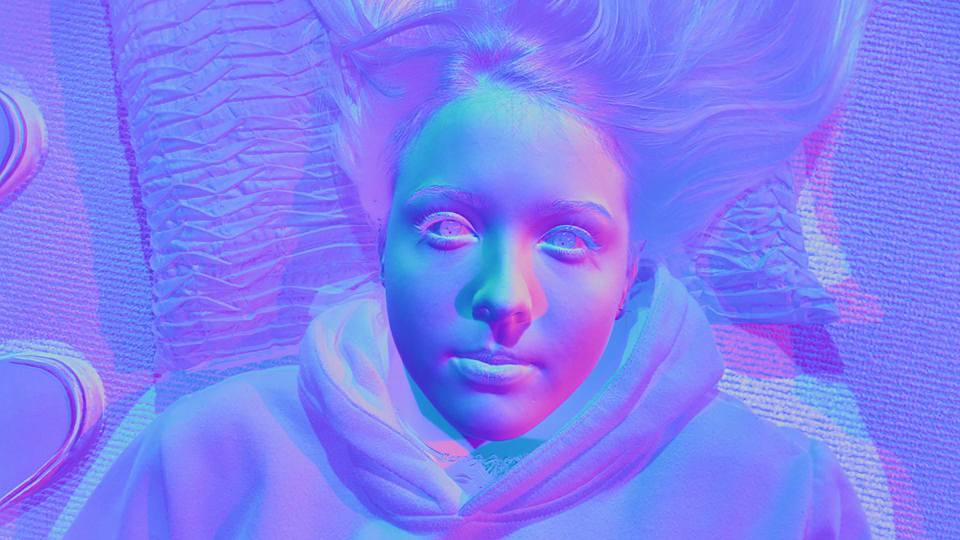
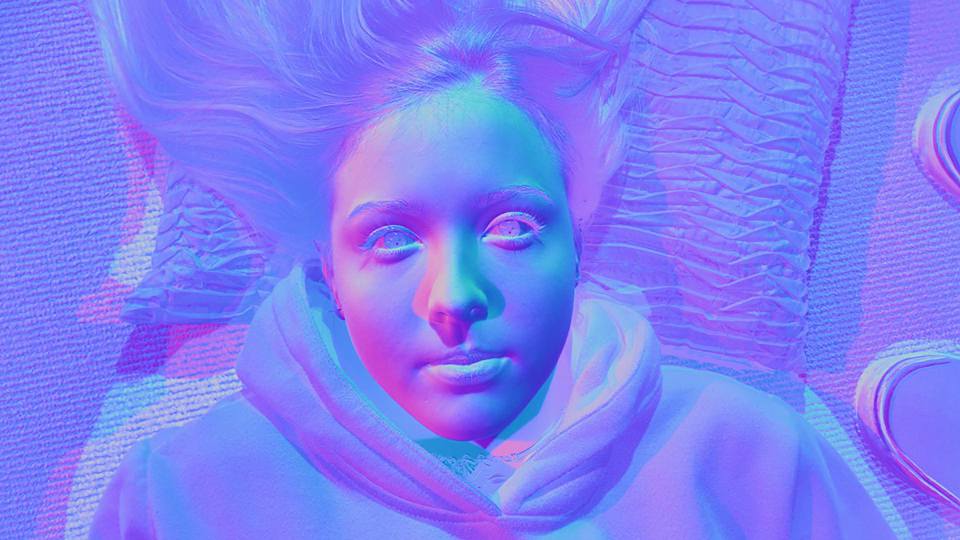
Works well

diff --git a/tp4/MVA_NPM_TP_4.py b/tp4/MVA_NPM_TP_4.py
@@ -13,19 +13,24 @@ class Material():
         render = np.zeros((nlig, ncol, 3))
 
         i,j = np.meshgrid(range(nlig), range(ncol),indexing='ij')
-        i = -(2*i - nlig)/ncol
-        j = (2*j - ncol)/ncol
+        i = -(2*i - nlig)/nlig
+        j = (2*j - ncol)/nlig
 
-        wo = np.stack((-j, -i, 1.5 * np.ones_like(i)), axis=-1)
-        
+        wo = np.stack((-i, -j, 1.5 * np.ones_like(i)), axis=-1)
+        wo = wo / np.linalg.norm(wo, axis=-1, keepdims=True)
+
         for light in lights:
-            wi = light.position - np.stack((-j, -i, np.zeros_like(i)), axis=-1)
+            wi = light.position - np.stack((j, i, np.zeros_like(i)), axis=-1)
+            wi = wi / np.linalg.norm(wi, axis=-1, keepdims=True)
 
             f = self.f(wo, wi, normal)
 
             Li = light.intensity * light.color
             nwi = np.sum(normal*wi,axis=-1,keepdims=True)
-            render += np.clip(f*Li*nwi, 0, None)
+            res = f * Li * nwi
+            # low = np.percentile(res, 0)
+            # high = np.percentile(res, 100)
+            render += np.clip(f*Li*nwi, 0, None) #max(0,low), high)
         return render 
 
     def __add__(self, other):
@@ -59,11 +64,12 @@ class BlinnPhong(Material):
         return self.diffuse * nwh**self.shine
 
 class Cook(Material):
-    def __init__(self, alpha, specular):
+    def __init__(self, alpha, specular, metal):
         self.alpha = alpha
         self.roughness = np.sqrt(self.alpha)
         self.k = (self.roughness + 1)**2/8
-        self.F0 = np.array(specular)
+        self.F0 = metal
+        self.spec = np.array(specular)
     
 
     def f(self, wo, wi, n):
@@ -75,7 +81,7 @@ class Cook(Material):
         nwo = np.sum(n*wo, axis=-1, keepdims=True)
 
         D = self.alpha**2 / (np.pi *(nwh**2*(self.alpha**2-1)+1)**2)
-        
+
         k = (self.roughness + 1)**2 / 8
         
         Gi = nwi/(nwi*(1-k)+k)
@@ -86,7 +92,9 @@ class Cook(Material):
         c1 = -5.55473
         c2 = -6.98316
         oh = np.sum(wh * wo, axis=-1, keepdims=True)
-        F = self.F0 + (1 - self.F0)*2**((c1*oh + c2)*oh)
+        F = self.spec * (self.F0 + (1 - self.F0)*2**((c1*oh + c2)*oh))
+
+        F[(nwi <= 0).squeeze()] = 0
 
         return D*F*G/(4 * nwi * nwo)
         
@@ -97,33 +105,21 @@ class LightSource():
         self.position = np.array(position)
         self.color = np.array(color)
         self.intensity = intensity
-
-def shade(normalimage, material, lightsources):
-    nlig, ncol, _ = normalimage.shape
-    render = np.zeros((nlig, ncol, 3))
-
-    for i, j in np.ndindex(nlig, ncol):
-        for ls in lightsources:
-            n =  (normalimage[i,j,:3]-0.5)
-            n = n/np.linalg.norm(n)
-            x = (2*j - ncol)/ncol
-            y = -(2*i - nlig)/ncol
-            wo = np.array([-x, -y ,1.5])
-            wo = wo/np.linalg.norm(wo)
-            wi = ls.position - np.array([x,y,0])
-            wi = wi/np.linalg.norm(wi)
-            f = material.f(wo, wi, n)
-            Li =  ls.intensity * ls.color
-            render[i,j] += np.clip(f * Li * np.dot(n, wi), 0, None)
-    return render 
+    
+    def set_position(self, position):
+        self.position = np.array(position)
 
 if __name__ == "__main__":
     imagefile = "normal.png"
     renderfile = "render.png"
 
     # Read normal image
-    normalimage = plt.imread(imagefile)
-
+    normalimage = plt.imread(imagefile)[:,:,:3]
+    mask = normalimage.max(axis=2) <= 4/255
+    normalimage = 2 * normalimage -1
+    normalimage = normalimage / np.linalg.norm(normalimage, axis=-1, keepdims=True)
+    normalimage[mask] = 0
+    
     # Display normal image
     if False:
         plt.imshow(normalimage)
@@ -131,37 +127,40 @@ if __name__ == "__main__":
 
     # Define materials and light source
     # lambert = Lambert([0.3, 0.8, 0.5], 3)
-    lambert = Lambert([0.70,0.62,0.62],1)
-    lambert2 = Lambert([0.70,0.62,0.62],0.6)
+    lambert = Lambert([0.80,0.42,0.42],1)
 
-    blinn = BlinnPhong([0.70,0.62,0.62],0.75)
+    blinn = BlinnPhong([0.80,0.42,0.42],5)
 
-    cook = Cook(0.3, [0.70,0.62,0.62])
-    material = blinn
+    cook = Cook(0.5, [0.8,0.42,0.42], 1)
+    material = cook
 
-    light_source1 = LightSource([0.,0,1.0], [1.,1.,1.], 0.5)
-    light_source2 = LightSource([1.,0.,1.], [1.,0.1,0.3], 5)
-    light_source3 = LightSource([-1,0.,1.], [0.1,0.4,1.], 5)
+    light = LightSource([0.,0,0.5], [1.,1.,1.], 50)
+
 
     fig, ax = plt.subplots()
-    render = lambert.shade(normalimage[:,:,:3], [light_source1])
+    render = material.shade(normalimage[:,:,:3], [light])
+    #render = render / render.max()
+
     im = plt.imshow(render)
     nlig,ncol,_ = render.shape
 
     from matplotlib.widgets import Slider
-    axx = plt.axes([0.25, 0.1, 0.65, 0.03])
-    axy = plt.axes([0.25, 0.15, 0.65, 0.03])
-    lx = Slider(axx,"x",-1.,1.,0)
-    ly = Slider(axy,"y",-1.,1.,0)
+    #axx = plt.axes([0.25, 0.1, 0.65, 0.03])
+    #axy = plt.axes([0.25, 0.15, 0.65, 0.03])
+    #lx = Slider(axx,"x",-1.,1.,0)
+    #ly = Slider(axy,"y",-1.,1.,0)
 
-    def onclick(event):
-        x = 5*(event.x-ncol/2)/ncol
-        y = -5*(event.y-nlig/2)/ncol
-        print(x,y)
-        light = LightSource([x,y,1.], [1.,1.,1.], 1)
-        render = lambert.shade(normalimage[:,:,:3],[light])
+    def onmotion(event):
+        if event.xdata is None or event.ydata is None: return
+        x = (2*event.xdata-ncol)/nlig
+        y = -(2*event.ydata-nlig)/nlig
+        light.set_position([x,y,0.5])
+        render = material.shade(normalimage[:,:,:3],[light])
+        #render = render / render.max()
         im.set_data(render)
-    cid = fig.canvas.mpl_connect('button_press_event', onclick)
+        plt.draw()
+
+    cid = fig.canvas.mpl_connect('motion_notify_event', onmotion)
 
     #lx.on_changed(update)
     plt.show()
